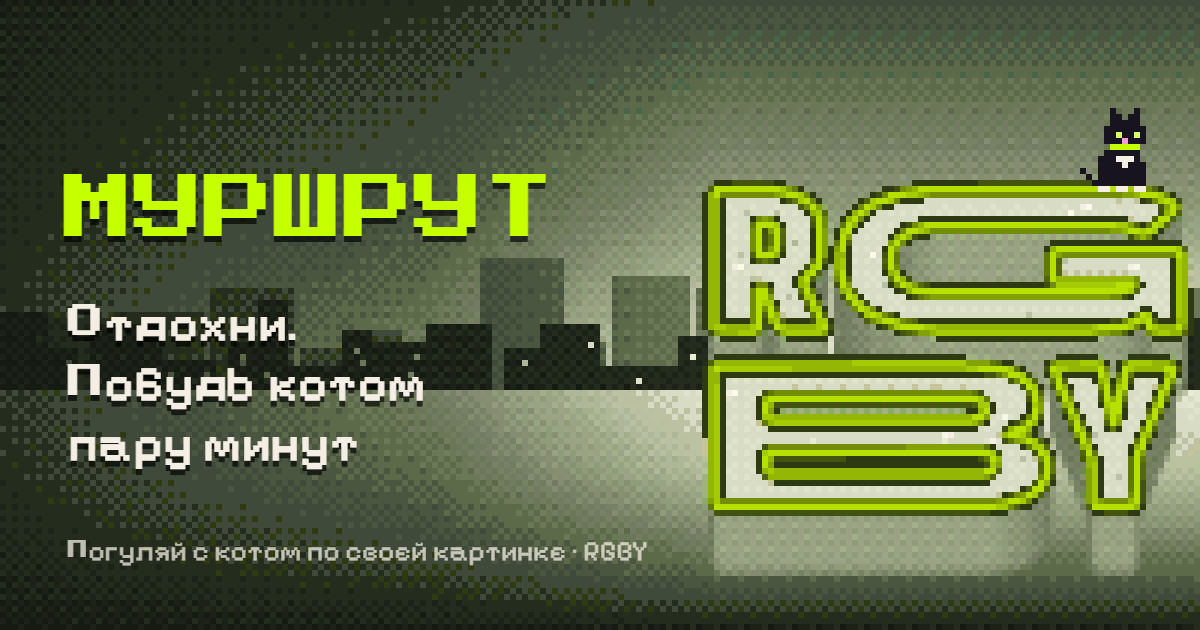
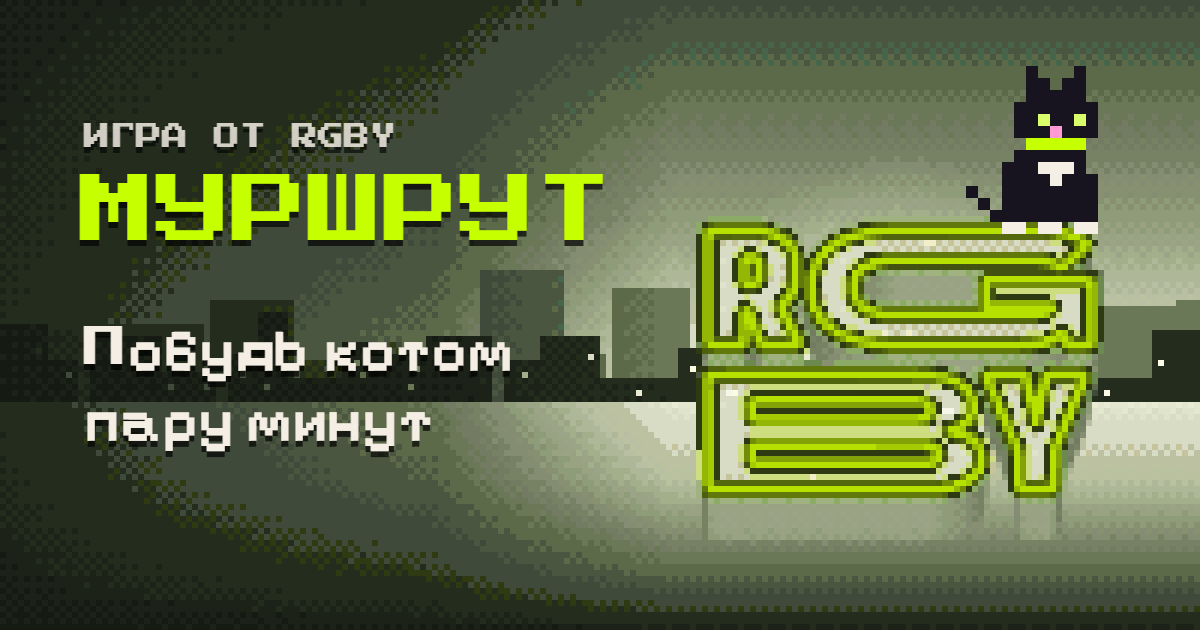
Add files via upload

diff --git a/index.html b/index.html
@@ -1084,12 +1084,14 @@ function makeIcon(size) {
   const out = mk(size, size), o = out.getContext('2d'); o.imageSmoothingEnabled = false; o.drawImage(lo, 0, 0, size, size);
   return out;
 }
+// превью ссылки 1200×630. Мессенджеры подрезают края и показывают картинку мелко,
+// поэтому всё важное — в безопасной зоне с отступом, текста мало и он крупный, дизеринг мягкий.
 function makeOG() {
-  const vw = 200, vh = 105, lo = mk(vw, vh), c = g2d(lo), pal = DAWN, P = POSTER, hz = 64;
+  const vw = 200, vh = 105, lo = mk(vw, vh), c = g2d(lo), pal = DAWN, P = POSTER, hz = 66;
   const sky = c.createLinearGradient(0, 0, 0, hz); sky.addColorStop(0, P.sky[0]); sky.addColorStop(0.55, P.sky[1]); sky.addColorStop(1, P.sky[2]);
   c.fillStyle = sky; c.fillRect(0, 0, vw, hz);
-  const sun = c.createRadialGradient(176, hz, 0, 176, hz, 34); sun.addColorStop(0, rgba(P.sun, 0.95)); sun.addColorStop(0.3, rgba(P.sun, 0.5)); sun.addColorStop(1, rgba(P.sun, 0));
-  c.fillStyle = sun; c.fillRect(0, 0, vw, hz); c.fillStyle = P.sun; c.beginPath(); c.arc(176, hz, 7, Math.PI, 0); c.fill();
+  const sun = c.createRadialGradient(150, hz, 0, 150, hz, 40); sun.addColorStop(0, rgba(P.sun, 0.95)); sun.addColorStop(0.3, rgba(P.sun, 0.5)); sun.addColorStop(1, rgba(P.sun, 0));
+  c.fillStyle = sun; c.fillRect(0, 0, vw, hz); c.fillStyle = P.sun; c.beginPath(); c.arc(150, hz, 8, Math.PI, 0); c.fill();
   const gr = c.createLinearGradient(0, hz, 0, vh); P.ground.forEach((col, i) => gr.addColorStop([0, 0.35, 0.75, 1][i], col));
   c.fillStyle = gr; c.fillRect(0, hz, vw, vh - hz);
   for (let x = -3, k = 50; x < vw; k++) { const w = 6 + Math.floor(hash(k, 1, 8) * 10), h = 6 + Math.floor(hash(k, 2, 8) ** 1.5 * 16); c.fillStyle = P.cityFar; c.fillRect(x, hz - h, w, h + 1); x += w + (hash(k, 3, 8) > 0.6 ? 1 : 0); }
@@ -1099,28 +1101,30 @@ function makeOG() {
     c.fillStyle = P.sun; for (let j = 0; j < 2; j++) if (hash(k, j, 9) > 0.55) c.fillRect(x + 1 + Math.floor(hash(k, j, 10) * (w - 2)), hz - h + 2 + Math.floor(hash(k, j, 11) * Math.max(1, h - 3)), 1, 1);
     x += w + (hash(k, 3, 8) > 0.7 ? 2 : 0);
   }
-  // логотип справа, след пройден целиком
+  // логотип — справа, но не у края: правая граница ~x=182 из 200
   const [x0, y0, x1, y1] = L.bbox, bw = x1 - x0, bh = y1 - y0, kk = 0.78;
-  const s = Math.min(78 / bw, 60 / (bh * kk)), ox = 158 - bw * s / 2, oy = 58 - bh * s * kk / 2;
+  const s = Math.min(64 / bw, 54 / (bh * kk)), ox = 150 - bw * s / 2, oy = 60 - bh * s * kk / 2;
   const proj = (x, y) => [ox + (x - x0) * s, oy + (y - y0) * s * kk];
-  drawSlab(c, pal, proj, 12, (a, b) => a[1] + b[1], vw, vh, 0.6);
+  drawSlab(c, pal, proj, 9, (a, b) => a[1] + b[1], vw, vh, 0.6);
   const R = L.route;
   const trail = (g, lw, col) => { g.strokeStyle = col; g.lineWidth = lw; g.lineCap = 'round'; g.lineJoin = 'round'; g.beginPath(); let pen = false; for (const p of R) { if (!p.j) { const q = proj(p.x, p.y); pen ? g.lineTo(q[0], q[1]) : g.moveTo(q[0], q[1]); pen = true; } else pen = false; } g.stroke(); };
-  trail(c, 3, rgba(pal.neon, 0.3));
+  trail(c, 4, rgba(pal.neon, 0.35));
   // затемнение слева — под текст
-  const sh = c.createLinearGradient(0, 0, 120, 0); sh.addColorStop(0, rgba(P.shade, 0.88)); sh.addColorStop(0.6, rgba(P.shade, 0.55)); sh.addColorStop(1, rgba(P.shade, 0));
-  c.fillStyle = sh; c.fillRect(0, 0, 120, vh);
-  quantize(c, vw, vh, palList(pal).concat(P.sky, P.sun, P.city, P.cityFar, P.ground, P.shade), 18);
+  const sh = c.createLinearGradient(0, 0, 112, 0); sh.addColorStop(0, rgba(P.shade, 0.92)); sh.addColorStop(0.65, rgba(P.shade, 0.6)); sh.addColorStop(1, rgba(P.shade, 0));
+  c.fillStyle = sh; c.fillRect(0, 0, 112, vh);
+  quantize(c, vw, vh, palList(pal).concat(P.sky, P.sun, P.city, P.cityFar, P.ground, P.shade, mixHex(pal.top, pal.neon, 0.35)), 8);
   const layer = mk(vw, vh), lg = layer.getContext('2d'); trail(lg, 3, pal.neonD); trail(lg, 1.6, pal.neon); stamp(c, layer, vw, vh);
-  let seat = null; for (const p of R) if (!p.j && p.x > x0 + bw * 0.45 && (!seat || p.y < seat.y)) seat = p;
-  if (seat) { const [sx, sy] = proj(seat.x, seat.y); c.drawImage(CAT_SIT, Math.round(sx) - 6, Math.round(sy) - 14); }
+  // котёнок вдвое крупнее, сидит на верхней точке логотипа
+  let seat = null; for (const p of R) if (!p.j && p.x > x0 + bw * 0.5 && (!seat || p.y < seat.y)) seat = p;
+  if (seat) { const [sx, sy] = proj(seat.x, seat.y); c.imageSmoothingEnabled = false; c.drawImage(CAT_SIT, Math.round(sx) - 12, Math.round(sy) - 27, 24, 28); }
   const out = mk(1200, 630), o = out.getContext('2d'); o.imageSmoothingEnabled = false; o.drawImage(lo, 0, 0, 1200, 630);
-  o.textBaseline = 'alphabetic'; o.shadowColor = '#000000aa'; o.shadowOffsetY = 6;
-  o.fillStyle = NIGHT.neon; o.font = '70px "Press Start 2P"'; o.fillText('МУРШРУТ', 64, 245);
-  o.fillStyle = '#f4eee4'; o.font = '600 50px "Pixelify Sans"'; o.fillText('Отдохни.', 68, 340); o.fillText('Побудь котом', 68, 400); o.fillText('пару минут', 68, 460);
-  o.shadowOffsetY = 0; o.globalAlpha = 0.75; o.font = '400 28px "Pixelify Sans"'; o.fillText('Погуляй с котом по своей картинке · RGBY', 68, 560);
+  o.textBaseline = 'alphabetic'; o.shadowColor = '#000000b0'; o.shadowOffsetY = 6;
+  o.fillStyle = '#f4eee4'; o.globalAlpha = 0.85; o.font = '26px "Press Start 2P"'; o.fillText('ИГРА ОТ RGBY', 84, 150); o.globalAlpha = 1;
+  o.fillStyle = NIGHT.neon; o.font = '76px "Press Start 2P"'; o.fillText('МУРШРУТ', 80, 250);
+  o.fillStyle = '#f4eee4'; o.font = '600 60px "Pixelify Sans"'; o.fillText('Побудь котом', 84, 370); o.fillText('пару минут', 84, 440);
   return out;
 }
+
 if (Q.has('build')) {
   (document.fonts ? Promise.all([document.fonts.load('20px "Press Start 2P"', 'МУРШРУТ'), document.fonts.load('600 20px "Pixelify Sans"', 'ОПотдохниRGBY'), document.fonts.load('400 20px "Pixelify Sans"', 'ОПотдохниRGBY')]) : Promise.resolve()).then(async () => {
     L = buildLevel({ type: 'rgby' });
